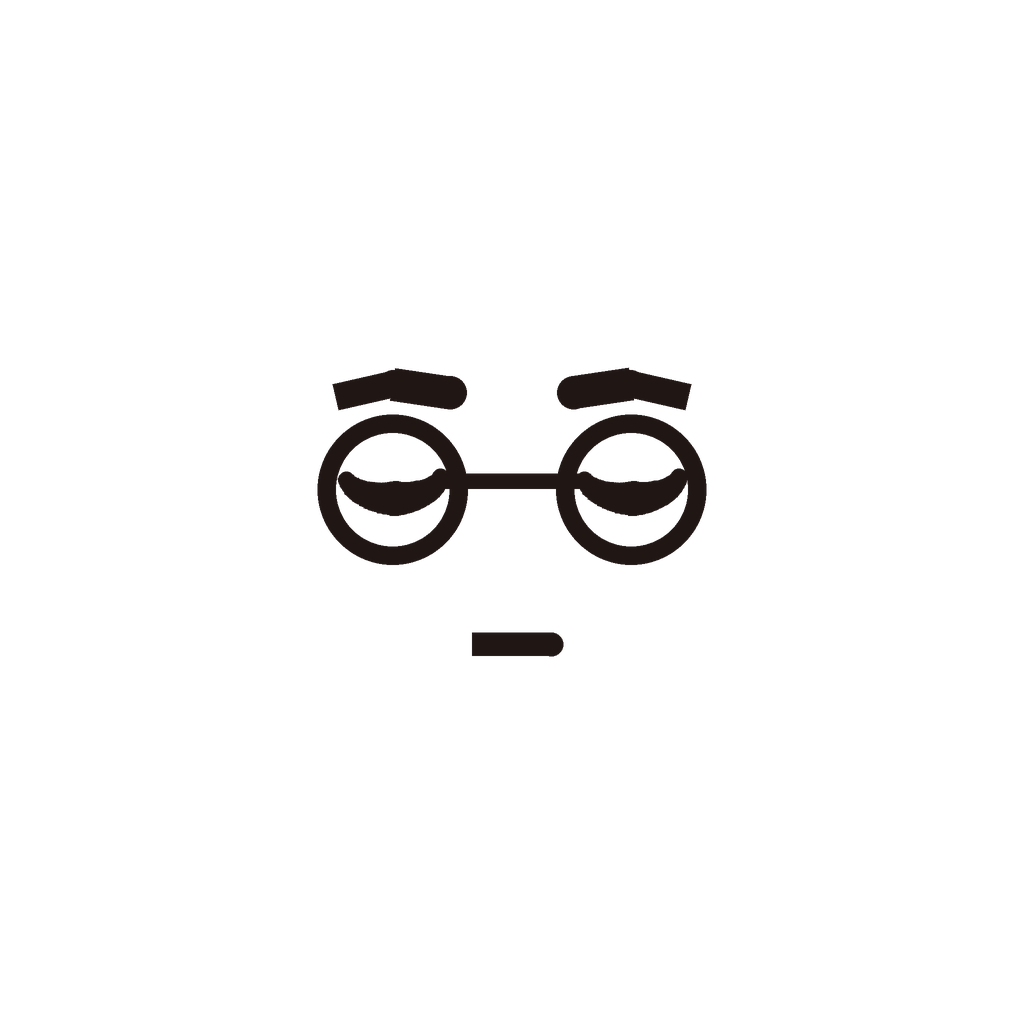
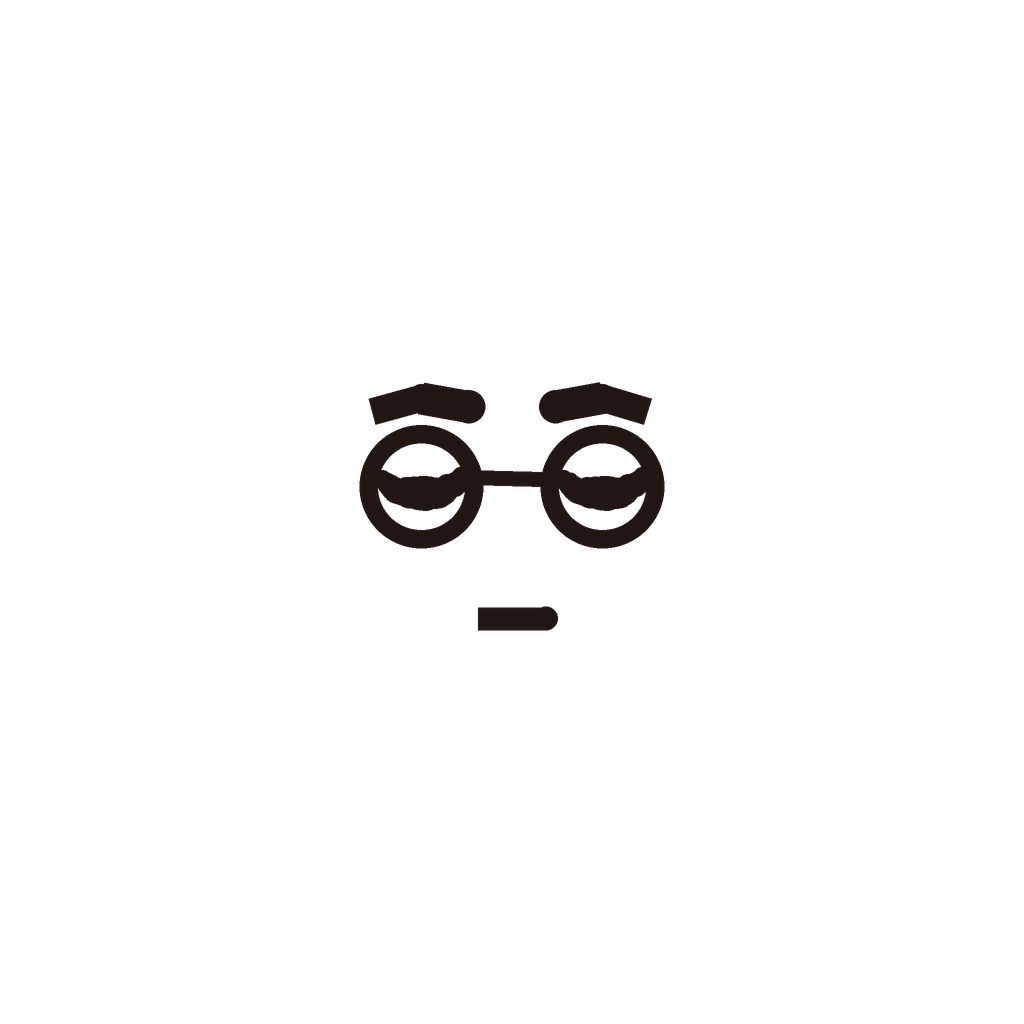
Look v6: no set ink, blue/wood palette, hand-drawn character outline, flat heads, smaller asymmetric faces, clothing decals, thin limbs, light shafts and bloom in post
Claude-Session: https://claude.ai/code/session_01B5sgCVepJEDXiVLGvcjf3z

Changed region(s): [[0.3125, 0.3438, 0.6875, 0.5625], [0.4375, 0.5938, 0.5625, 0.6562]]

diff --git a/production/pipeline/characters.py b/production/pipeline/characters.py
@@ -16,6 +16,23 @@ def striped(name,col,dark,scale,axis='Z',rough=0.6):
     e[0].color=(*dark,1); e[1].position=0.12; e[1].color=(*col,1)
     nt.links.new(tc.outputs['Object'],w.inputs[0]); nt.links.new(w.outputs['Fac'],cr.inputs[0]); nt.links.new(cr.outputs[0],p.inputs['Base Color'])
     return m
+def front_decal(base,path,hw,top,bot):
+    """Copy of material 'base' with a front-projected drawing (pockets, stitches, tie...) over its colour."""
+    m=base.copy(); m.name=base.name+"_dec"; nt=m.node_tree; n=nt.nodes; p=n["Principled BSDF"]
+    src=p.inputs['Base Color'].links[0].from_socket if p.inputs['Base Color'].links else None
+    col=tuple(p.inputs['Base Color'].default_value)
+    tc=n.new('ShaderNodeTexCoord'); sx=n.new('ShaderNodeSeparateXYZ'); nt.links.new(tc.outputs['Object'],sx.inputs[0])
+    u=n.new('ShaderNodeMapRange'); u.inputs[1].default_value=-hw; u.inputs[2].default_value=hw; u.clamp=False; nt.links.new(sx.outputs['X'],u.inputs[0])
+    v=n.new('ShaderNodeMapRange'); v.inputs[1].default_value=bot; v.inputs[2].default_value=top; v.clamp=False; nt.links.new(sx.outputs['Z'],v.inputs[0])
+    cx=n.new('ShaderNodeCombineXYZ'); nt.links.new(u.outputs[0],cx.inputs[0]); nt.links.new(v.outputs[0],cx.inputs[1])
+    tx=n.new('ShaderNodeTexImage'); tx.image=bpy.data.images.load(path,check_existing=True); tx.extension='CLIP'; nt.links.new(cx.outputs[0],tx.inputs[0])
+    fr=n.new('ShaderNodeMath'); fr.operation='LESS_THAN'; fr.inputs[1].default_value=0.0; nt.links.new(sx.outputs['Y'],fr.inputs[0])
+    al=n.new('ShaderNodeMath'); al.operation='MULTIPLY'; nt.links.new(tx.outputs['Alpha'],al.inputs[0]); nt.links.new(fr.outputs[0],al.inputs[1])
+    mx=n.new('ShaderNodeMix'); mx.data_type='RGBA'; nt.links.new(al.outputs[0],mx.inputs['Factor'])
+    if src: nt.links.new(src,mx.inputs['A'])
+    else: mx.inputs['A'].default_value=col
+    nt.links.new(tx.outputs['Color'],mx.inputs['B']); nt.links.new(mx.outputs['Result'],p.inputs['Base Color'])
+    return m
 def ink_ring(o_parent,loc,R,r,rot=(0,0,0)):
     """Thin dark torus = drawn inner line where two parts meet (hat/forehead, hair/forehead)."""
     return torus(loc,R,r,mat("ink",(0.035,0.025,0.02),0.6,0.1),rot=rot)
@@ -44,40 +61,30 @@ class Character:
         _add(o,self.root,self.coll)
         return o
     # ---------- builders ----------
-    def build(self,R=0.25,hip=0.8,torso=0.6,torso_w=0.17,shirt=(0.96,0.96,0.95),legs=(0.035,0.025,0.02),beard=False,
+    def build(self,R=0.25,hip=0.8,torso=0.6,torso_w=0.17,shirt=(0.96,0.96,0.95),legs=(0.035,0.025,0.02),beard=False,decal=None,look=0.0,
               shoes=(0.12,0.08,0.06),hair=None,hat=None,tie=None,coat=None,buttons=0,arms=None,collar=True):
-        self.R=R; self.beard=beard; z_t=hip+torso/2-0.04
+        self.R=R; self.beard=beard; self.look=look; z_t=hip+torso/2-0.04; decal_objs=[]
         body=sph((0,0,z_t),(torso_w,torso_w*0.78,torso/2+0.03),mat(self.name+"_shirt",shirt,0.7,0.25,emit=0.08 if sum(shirt)>2.7 else 0),seg=40)
         self.part(body,0.011)
         if coat:  # long coat flaring to the knees
-            c=cyl((0,0,hip-0.05),torso_w*1.02,0.62,mat(self.name+"_coat",coat,0.45,0.45),verts=40,r2=torso_w*1.45,rot=(math.pi,0,0),bevel=0.0)
-            c.location=(0,0,hip+0.02); self.part(c,0.011)
-            top=sph((0,0,z_t+0.05),(torso_w*1.07,torso_w*0.86,torso/2-0.02),mat(self.name+"_coat",coat,0.45,0.45),seg=40); self.part(top,0.011)
-            for i in range(buttons):
+            c=cyl((0,0,hip-0.05),torso_w*1.02,0.62,mat(self.name+"_coat",coat,0.8,0.15),verts=40,r2=torso_w*1.45,rot=(math.pi,0,0),bevel=0.0)
+            c.location=(0,0,hip+0.02); self.part(c,0.011); decal_objs=[c]
+            top=sph((0,0,z_t+0.05),(torso_w*1.07,torso_w*0.86,torso/2-0.02),mat(self.name+"_coat",coat,0.8,0.15),seg=40); self.part(top,0.011); decal_objs.append(top)
+            for i in range(0):
                 self.part(sph((0.0,-torso_w*0.88,z_t+0.18-i*0.17),(0.018,0.012,0.018),mat("btn",(0.15,0.1,0.06),0.4)))
             if collar:
                 for s in (-1,1):
-                    cl=cyl((s*0.06,-0.07,z_t+torso/2-0.04),0.07,0.02,mat(self.name+"_coat",coat,0.45,0.45),rot=(1.2,0,s*0.6),verts=3); self.part(cl,0.006)
+                    cl=cyl((s*0.06,-0.07,z_t+torso/2-0.04),0.07,0.02,mat(self.name+"_coat",coat,0.8,0.15),rot=(1.2,0,s*0.6),verts=3); self.part(cl,0.006)
         elif collar and not tie:
             for s in (-1,1):
                 cl=cyl((s*0.045,-torso_w*0.62,z_t+torso/2-0.07),0.055,0.015,mat(self.name+"_shirt",shirt,0.7,0.25,emit=0.08 if sum(shirt)>2.7 else 0),rot=(1.35,0,s*0.5),verts=3); self.part(cl,0.006)
-        if tie:  # tie painted onto the shirt front (flat, striped, ink outline)
-            m=body.data.materials[0].copy(); m.name=self.name+"_shirt_tie"; nt=m.node_tree; n=nt.nodes; p=n["Principled BSDF"]
-            tc=n.new('ShaderNodeTexCoord'); sx=n.new('ShaderNodeSeparateXYZ'); nt.links.new(tc.outputs['Object'],sx.inputs[0])
-            hw=0.105; top=z_t+torso/2-0.02; bot=z_t-torso/2*0.62
-            u=n.new('ShaderNodeMapRange'); u.inputs[1].default_value=-hw; u.inputs[2].default_value=hw; u.clamp=False; nt.links.new(sx.outputs['X'],u.inputs[0])
-            v=n.new('ShaderNodeMapRange'); v.inputs[1].default_value=bot; v.inputs[2].default_value=top; v.clamp=False; nt.links.new(sx.outputs['Z'],v.inputs[0])
-            cx=n.new('ShaderNodeCombineXYZ'); nt.links.new(u.outputs[0],cx.inputs[0]); nt.links.new(v.outputs[0],cx.inputs[1])
-            tx=n.new('ShaderNodeTexImage'); tx.image=bpy.data.images.load(os.path.join(HERE,"assets","tie.png"),check_existing=True); tx.extension='CLIP'
-            nt.links.new(cx.outputs[0],tx.inputs[0])
-            fr=n.new('ShaderNodeMath'); fr.operation='LESS_THAN'; fr.inputs[1].default_value=0.0; nt.links.new(sx.outputs['Y'],fr.inputs[0])
-            al=n.new('ShaderNodeMath'); al.operation='MULTIPLY'; nt.links.new(tx.outputs['Alpha'],al.inputs[0]); nt.links.new(fr.outputs[0],al.inputs[1])
-            mx=n.new('ShaderNodeMix'); mx.data_type='RGBA'; nt.links.new(al.outputs[0],mx.inputs['Factor']); mx.inputs['A'].default_value=(*shirt,1); nt.links.new(tx.outputs['Color'],mx.inputs['B'])
-            nt.links.new(mx.outputs['Result'],p.inputs['Base Color'])
-            body.data.materials[0]=m
+        if decal:
+            targets=[o for o in decal_objs] if decal_objs else [body]
+            m=front_decal(targets[0].data.materials[0],os.path.join(HERE,"assets",decal),hw=torso_w*1.25,top=z_t+torso/2+0.02,bot=hip-(0.55 if coat else 0.02))
+            for o in targets: o.data.materials[0]=m
         # head
         hz=z_t+torso/2+R*0.82; self.head_z=hz
-        head=sph((0,0,hz),(R,R*0.93,R*0.97),mat("skin",SKIN,0.45,0.45,emit=0.18),seg=48); self.part(head,0.013)
+        head=sph((0,0,hz),(R,R*0.93,R*0.97),mat("skin",SKIN,1.0,0.0,emit=0.1),seg=48); self.part(head,0.013)
         if hair:
             import bmesh
             o=sph((0,0,hz),(R*1.05,R*0.98,R*1.02),striped(self.name+"_hair",hair,tuple(x*0.45 for x in hair),9,'X',0.5),seg=48)
@@ -111,21 +118,21 @@ class Character:
         me=bpy.data.meshes.new(self.name+"_face"); me.from_pydata([(x*R,y*R,0) for x,y in pts]+[(0,0,0)],[],[[i for i in range(len(pts))]]); me.update()
         uv=me.uv_layers.new()
         for l in me.loops:
-            co=me.vertices[l.vertex_index].co; uv.data[l.index].uv=(co.x/(2.6*R)+0.5,co.y/(2.6*R)+0.5)
+            co=me.vertices[l.vertex_index].co; uv.data[l.index].uv=(co.x/(2.6*R)+0.5-self.look,co.y/(2.6*R)+0.5)
         fp=bpy.data.objects.new(self.name+"_face",me)
         self.faces_coll.objects.link(fp); fp.parent=piv; fp.location=(0,0,R*1.02); fp.visible_shadow=False
-        self.face_mat=image_mat(self.name+"_facemat",f"{FACEDIR}/{self.name}_{self.face_name}.png",emit=0.6,rough=0.9)
+        self.face_mat=image_mat(self.name+"_facemat",f"{FACEDIR}/{self.name}_{self.face_name}.png",emit=0.25,rough=0.9)
         fp.data.materials.append(self.face_mat); self.face_obj=fp
         # legs + shoes
         for s in (-1,1):
-            self.limb(tube([(s*0.065,0.0,hip+0.05),(s*0.07,0.0,0.45),(s*0.075,0.0,0.07)],0.012,mat("limb",legs,0.6)))
-            self.part(sph((s*0.075,-0.04,0.035),(0.045,0.08,0.035),mat(self.name+"_shoes",shoes,0.5,0.3)),0.007)
+            self.limb(tube([(s*0.065,0.0,hip+0.05),(s*0.07,0.0,0.45),(s*0.075,0.0,0.07)],0.009,mat("limb",legs,0.9,0.0)))
+            self.part(sph((s*0.07,-0.035,0.022),(0.028,0.055,0.022),mat(self.name+"_shoes",shoes,0.9,0.05)),0.0)
         self.sh_z=z_t+torso/2-0.16; self.sh_x=torso_w*(1.0 if coat else 0.9)
         for side,pts in zip((-1,1),arms or [None,None]):
             if pts is None: pts=[(0.05,0,-0.02),(0.12,-0.02,-0.25),(0.14,-0.05,-0.5)]
             P=[(side*(self.sh_x+a),b,self.sh_z+c) for a,b,c in pts]
-            self.limb(tube([(side*(self.sh_x-0.04),0,self.sh_z)]+P,0.011,mat("limb",legs,0.6)))
-            self.limb(sph(P[-1],(0.024,0.024,0.024),mat("limb",legs,0.6)))
+            self.limb(tube([(side*(self.sh_x-0.04),0,self.sh_z)]+P,0.0085,mat("limb",legs,0.9,0.0)))
+            self.limb(sph(P[-1],(0.02,0.02,0.02),mat("limb",legs,0.9,0.0)))
         return self
     def set_face(self,face):
         img=bpy.data.images.load(f"{FACEDIR}/{self.name}_{face}.png",check_existing=True)
@@ -143,10 +150,10 @@ POSES={  # per arm (left, right): points relative to the shoulder; x outward, y 
  "hold":   ([(0.03,-0.02,-0.07),(0.06,-0.14,-0.22),(-0.02,-0.26,-0.18)],)*2,
  "thinking":([(0.03,0,-0.06),(0.07,-0.01,-0.24),(0.08,-0.03,-0.42)],[(0.03,-0.03,-0.07),(0.06,-0.14,-0.2),(-0.06,-0.24,0.06)]),
 }
-def keeper(loc,yaw=0,face="smug",arms=None,pose=None):
+def keeper(loc,yaw=0,face="smug",arms=None,pose=None,look=0.0):
     arms=list(POSES[pose]) if pose else arms
-    return Character("keeper",loc,yaw,face=face).build(R=0.3,torso_w=0.16,coat=(0.93,0.68,0.16),buttons=3,hat="beanie",beard=True,
+    return Character("keeper",loc,yaw,face=face).build(R=0.3,torso_w=0.16,coat=(0.98,0.74,0.12),buttons=3,hat="beanie",beard=True,decal="coat_details.png",look=look,
         shirt=(0.93,0.68,0.16),shoes=(0.08,0.06,0.05),arms=arms)
-def engineer(loc,yaw=0,face="happy",arms=None,pose=None):
+def engineer(loc,yaw=0,face="happy",arms=None,pose=None,look=0.0):
     arms=list(POSES[pose]) if pose else arms
-    return Character("engineer",loc,yaw,face=face).build(R=0.29,torso_w=0.15,hair=(0.42,0.25,0.13),tie=(0.24,0.36,0.56),arms=arms)
+    return Character("engineer",loc,yaw,face=face).build(R=0.29,torso_w=0.15,hair=(0.42,0.25,0.13),tie=None,decal="shirt_details.png",look=look,arms=arms)

diff --git a/production/pipeline/sets/cottage.py b/production/pipeline/sets/cottage.py
@@ -29,9 +29,9 @@ def boards_h(axis_pos,span,z0,z1,h,m,coll,wall="back",holes=(),th=0.045,gap=0.00
 def build(time="day"):
     random.seed(7); sc=bpy.context.scene
     S=bpy.data.collections.new("set"); sc.collection.children.link(S)
-    upper=painted("upper_wall",(0.66,0.70,0.68),brush=55)
-    lower=painted("wainscot",(0.20,0.36,0.38),grime=(0.1,0.14,0.13),brush=70)
-    floor=wood("floor",(0.56,0.36,0.2),(0.3,0.17,0.08),axis="Y",grain=5)
+    upper=painted("upper_wall",(0.56,0.70,0.84),grime=(0.4,0.48,0.56),brush=55)
+    lower=painted("wainscot",(0.12,0.25,0.5),grime=(0.08,0.14,0.26),brush=70)
+    floor=wood("floor",(0.66,0.42,0.22),(0.38,0.21,0.1),axis="Y",grain=5,rough=0.38)
     trim=mat("trim",(0.88,0.85,0.78),0.5,0.3,vary=0.03)
     beamm=wood("beam",(0.42,0.27,0.15),(0.22,0.12,0.06),axis="Y",grain=4,bump=0.5)
     # floor boards with staggered ends
@@ -72,18 +72,18 @@ def build(time="day"):
     for xw in (x0,x1): box((xw,Y1-0.02,(z0+z1)/2),(0.08,0.14,z1-z0+0.08),fm,0.01,coll=S,name="wframe")
     box((cx,Y1,(z0+z1)/2),(0.04,0.05,z1-z0),fm,0.006,coll=S); box((cx,Y1,(z0+z1)/2),(x1-x0,0.05,0.04),fm,0.006,coll=S)
     box((cx,Y1-0.12,z0-0.03),(x1-x0+0.3,0.26,0.05),fm,0.01,coll=S,name="sill")
-    cur=mat("curtain",(0.66,0.24,0.2),0.8,0.1)
+    cur=mat("curtain",(0.78,0.16,0.14),0.85,0.1)
     for s,xc in ((-1,x0-0.12),(1,x1+0.12)):
         for k in range(4): cyl((xc+s*0.04*k,Y1-0.1-0.02*(k%2),(z0+z1)/2+0.1),0.05,1.25,cur,verts=12,bevel=0,coll=S,name="curtain")
     cyl((cx,Y1-0.12,z1+0.18),0.02,x1-x0+0.7,mat("brass",(0.85,0.6,0.15),0.3,0.6),rot=(0,math.pi/2,0),coll=S)
     pot=cyl((x0+0.25,Y1-0.12,z0+0.08),0.07,0.12,mat("pot",(0.75,0.35,0.2),0.7),r2=0.09,coll=S)
     for k in range(5): sph((x0+0.25+random.uniform(-0.06,0.06),Y1-0.12+random.uniform(-0.04,0.04),z0+0.2+random.uniform(0,0.1)),(0.06,0.05,0.07),mat("leaf",(0.25,0.55,0.2),0.6),seg=12,coll=S)
     bpy.ops.mesh.primitive_plane_add(size=1,location=(cx+0.3,Y1+1.6,1.6),rotation=(math.pi/2,0,0)); v=bpy.context.object; v.scale=(4.8,3.6,1)
-    v.data.materials.append(image_mat("view",f"{A}/sky_golden.png",emit=0.9,alpha=False)); v.visible_shadow=False
+    v.data.materials.append(image_mat("view",f"{A}/sky_day.png",emit=1.1,alpha=False)); v.visible_shadow=False
     for c in v.users_collection: c.objects.unlink(v)
     S.objects.link(v)
     # ---- props ----
-    fwood=wood("furniture",(0.58,0.35,0.18),(0.33,0.18,0.08),axis="X",grain=7); dark=mat("iron",(0.12,0.11,0.11),0.4,0.5)
+    fwood=wood("furniture",(0.58,0.35,0.18),(0.33,0.18,0.08),axis="X",grain=7); dark=mat("iron",(0.1,0.1,0.11),0.25,0.8)
     # table + cloth + lamp + mug + bread
     tx,ty=1.35,-0.6
     box((tx,ty,0.76),(1.2,0.8,0.06),fwood,0.012,coll=S,name="tabletop")
@@ -93,10 +93,10 @@ def build(time="day"):
     for i in range(6):
         for j in range(4):
             box((tx-0.45+i*0.18,ty-0.27+j*0.18,0.795),(0.18,0.18,0.008),cl if (i+j)%2 else mat("cloth2",(0.95,0.93,0.88),0.8,0.1),0,coll=S)
-    brass=mat("brass",(0.85,0.6,0.15),0.3,0.6); glow=mat("lampglow",(1.0,0.7,0.35),0.4,0.2,emit=12)
+    brass=mat("brass",(0.9,0.66,0.2),0.18,0.9); glow=mat("lampglow",(1.0,0.7,0.35),0.4,0.2,emit=12)
     cyl((tx-0.3,ty+0.15,0.83),0.09,0.06,brass,coll=S); cyl((tx-0.3,ty+0.15,0.88),0.03,0.06,brass,coll=S)
     sph((tx-0.3,ty+0.15,1.0),(0.075,0.075,0.11),glow,coll=S,name="lampglass"); cyl((tx-0.3,ty+0.15,1.13),0.045,0.04,brass,coll=S)
-    mug=cyl((tx+0.25,ty-0.1,0.86),0.055,0.12,mat("mug",(0.25,0.45,0.7),0.5,0.4),coll=S); torus((tx+0.31,ty-0.1,0.86),0.035,0.01,mat("mug",(0.25,0.45,0.7),0.5,0.4),rot=(math.pi/2,0,0),coll=S)
+    mug=cyl((tx+0.25,ty-0.1,0.86),0.055,0.12,mat("mug",(0.85,0.15,0.12),0.15,0.9),coll=S); torus((tx+0.31,ty-0.1,0.86),0.035,0.01,mat("mug",(0.85,0.15,0.12),0.15,0.9),rot=(math.pi/2,0,0),coll=S)
     cyl((tx+0.05,ty+0.1,0.81),0.15,0.015,mat("plate",(0.95,0.95,0.92),0.4,0.4),coll=S); sph((tx+0.05,ty+0.1,0.85),(0.1,0.06,0.045),mat("bread",(0.8,0.5,0.2),0.7),coll=S)
     for s in (-1,1):  # chairs
         chx,chy=tx+s*0.45,ty+(0.62 if s<0 else -0.62)
@@ -112,7 +112,7 @@ def build(time="day"):
     box((sx,sy-0.33,0.4),(0.24,0.03,0.2),mat("stoveglow",(1.0,0.45,0.1),0.5,0.1,emit=6),0.004,coll=S)
     for dx in (-0.2,0.2):
         for dy in (-0.2,0.2): cyl((sx+dx,sy+dy,0.06),0.04,0.12,dark,verts=8,coll=S)
-    cyl((sx+0.22,sy-0.05,0.93),0.11,0.16,mat("kettle",(0.2,0.45,0.4),0.35,0.5),coll=S)
+    cyl((sx+0.22,sy-0.05,0.93),0.11,0.16,mat("kettle",(0.1,0.35,0.6),0.12,0.9),coll=S)
     # shelf on left wall with jars and books
     box((X0+0.15,0.2,1.55),(0.26,1.5,0.04),fwood,0.006,coll=S); box((X0+0.15,0.2,1.15),(0.26,1.5,0.04),fwood,0.006,coll=S)
     cols=[(0.3,0.55,0.35),(0.75,0.3,0.2),(0.85,0.7,0.3),(0.3,0.4,0.75),(0.65,0.6,0.55),(0.5,0.25,0.5)]
@@ -146,7 +146,7 @@ def build(time="day"):
         for dy in (-0.2,0.2): cyl((rx+s*0.22,ry+dy,0.27),0.022,0.45,rw,verts=8,coll=S)
     # braided round rug: one disc with ring pattern (no stacked edges -> no heavy rings of ink)
     bpy.ops.mesh.primitive_cylinder_add(radius=1.1,depth=0.015,location=(-0.1,0.2,0.008),vertices=96); rug=bpy.context.object; rug.scale=(1.25,0.85,1)
-    rm=fabric("rug",(0.62,0.34,0.24),(0.78,0.66,0.48),scale=90)
+    rm=fabric("rug",(0.75,0.2,0.16),(0.9,0.82,0.66),scale=90)
     rug.data.materials.append(rm)
     for c_ in rug.users_collection: c_.objects.unlink(rug)
     S.objects.link(rug)
@@ -166,15 +166,15 @@ def build(time="day"):
 def lights(time="day"):
     sc=bpy.context.scene
     bpy.ops.object.light_add(type='SUN',rotation=(math.radians(-52),0,math.radians(-30)))
-    sun=bpy.context.object.data; sun.energy=float(os.environ.get('SUN','6')); sun.color=(1.0,0.78,0.52); sun.angle=math.radians(2.5)
-    bpy.ops.object.light_add(type='SPOT',location=(0.9,4.6,3.6)); sp=bpy.context.object; sp.data.energy=float(os.environ.get('KEY','2500')); sp.data.color=(1.0,0.86,0.68)
+    sun=bpy.context.object.data; sun.energy=float(os.environ.get('SUN','6')); sun.color=(1.0,0.95,0.86); sun.angle=math.radians(2.5)
+    bpy.ops.object.light_add(type='SPOT',location=(0.9,4.6,3.6)); sp=bpy.context.object; sp.data.energy=float(os.environ.get('KEY','2500')); sp.data.color=(1.0,0.9,0.72)
     sp.data.spot_size=math.radians(38); sp.data.spot_blend=0.15; sp.data.shadow_soft_size=0.05
     tg=bpy.data.objects.new("key_tgt",None); bpy.context.scene.collection.objects.link(tg); tg.location=(-0.3,0.0,0.0)
     cn=sp.constraints.new('TRACK_TO'); cn.target=tg; cn.track_axis='TRACK_NEGATIVE_Z'; cn.up_axis='UP_Y'
-    bpy.ops.object.light_add(type='POINT',location=(0.75,-0.45,1.0)); l=bpy.context.object.data; l.energy=70; l.color=(1.0,0.66,0.33); l.shadow_soft_size=0.08
+    bpy.ops.object.light_add(type='POINT',location=(0.75,-0.45,1.0)); l=bpy.context.object.data; l.energy=float(os.environ.get("LAMP","18")); l.color=(1.0,0.66,0.33); l.shadow_soft_size=0.08
     bpy.ops.object.light_add(type='POINT',location=(0.5,-0.2,ZT-0.75)); l=bpy.context.object.data; l.energy=60; l.color=(1.0,0.7,0.4); l.shadow_soft_size=0.05
     bpy.ops.object.light_add(type='POINT',location=(-1.85,1.2,0.4)); l=bpy.context.object.data; l.energy=40; l.color=(1.0,0.45,0.15)
     # soft overall fill so the room reads bright like the competitors' game-style lighting
     bpy.ops.object.light_add(type='AREA',location=(0.3,-0.8,ZT-0.35),rotation=(0,0,0)); a=bpy.context.object.data; a.energy=float(os.environ.get('FILL','45')); a.size=3.0; a.color=(0.95,0.95,0.95)
     bpy.ops.object.light_add(type='AREA',location=(1.5,-3.2,1.6),rotation=(math.radians(80),0,math.radians(15))); a=bpy.context.object.data; a.energy=float(os.environ.get('FRONT','55')); a.size=2.5; a.color=(0.9,0.92,1.0)
-    w=bpy.data.worlds.new("w"); sc.world=w; w.use_nodes=True; bg=w.node_tree.nodes["Background"]; bg.inputs[0].default_value=(0.75,0.82,0.95,1); bg.inputs[1].default_value=0.4
+    w=bpy.data.worlds.new("w"); sc.world=w; w.use_nodes=True; bg=w.node_tree.nodes["Background"]; bg.inputs[0].default_value=(0.45,0.62,0.95,1); bg.inputs[1].default_value=0.4

diff --git a/production/pipeline/frame_v6.py b/production/pipeline/frame_v6.py
@@ -1,0 +1,62 @@
+"""Look v6 test frame: no set ink, two-family palette, gloss pass, action composition, post light shafts."""
+import bpy, sys, os, time, math
+sys.path.insert(0,os.path.dirname(os.path.abspath(__file__)))
+from toon import *
+from sets import cottage
+import characters as ch, bake
+import cv2, numpy as np
+OUT=sys.argv[-1]; T0=time.time(); E=os.environ.get
+sc=reset(pct=100)
+cam,tgt=camera(sc,(0.95,-1.55,0.98),(-0.05,0.45,1.3),lens=26,fstop=float(E("FSTOP","2.0")),focus=2.25)
+os.environ.update(SUN="3",KEY=E("KEY","9000"),FILL=E("FILL","10"),FRONT=E("FRONT","22"))
+cottage.build(); cottage.lights()
+sc.world.node_tree.nodes["Background"].inputs[1].default_value=float(E("WORLD","0.5"))
+# foreground hero prop: glass jar of mercury on the table (closest to camera)
+S=bpy.data.collections["set"]
+glass=mat("jarglass",(0.75,0.88,0.95),0.05,1.0); merc=mat("mercury",(0.82,0.84,0.88),0.04,1.0)
+cyl((0.95,-0.85,0.87),0.075,0.17,glass,coll=S,name="jar"); cyl((0.95,-0.85,0.97),0.06,0.03,mat("cork",(0.6,0.42,0.25),0.9,0.05),coll=S)
+sph((0.95,-0.85,0.83),(0.062,0.062,0.045),merc,coll=S,name="mercury")
+k=ch.keeper((-0.42,0.3,0),yaw=math.radians(30),face=E("KF","skeptical"),pose="hips",look=0.09)
+e=ch.engineer((0.38,0.42,0),yaw=math.radians(-38),face=E("EF","happy"),pose="point",look=-0.09)
+faces=set(bpy.data.collections["faces"].all_objects)
+names_c={o.name for o in bpy.data.collections["chars"].all_objects}|{o.name for o in bpy.data.collections["limbs"].all_objects}
+allobjs=[o for o in sc.objects if o.type in ('MESH','CURVE') and o not in faces]
+allobjs=[o for o in bake.to_mesh(allobjs) if o.type=='MESH']
+for o in allobjs:
+    mw=o.matrix_world.copy(); o.parent=None; o.matrix_world=mw
+setl=[o for o in allobjs if o.name not in names_c]; chl=[o for o in allobjs if o.name in names_c]
+setg=bake.join(setl,"world"); cast=bake.join(chl,"cast")
+bake.unwrap([setg],margin=0.0012); bake.unwrap([cast],margin=0.003)
+def do(g,AS,LS,spp,is_set):
+    alb=bake.img_np(bake.bake_pass([g],'DIFFUSE',AS,1,['COLOR']))
+    lit=cv2.GaussianBlur(bake.img_np(bake.bake_pass([g],'DIFFUSE',LS,spp,['DIRECT','INDIRECT'])),(0,0),0.7)
+    emi=bake.img_np(bake.bake_pass([g],'EMIT',LS,1))
+    gl=None
+    if is_set:
+        ao=cv2.GaussianBlur(bake.img_np(bake.bake_pass([g],'AO',LS,32)),(0,0),0.8); lit=lit*(0.3+0.7*ao)
+    ink=np.zeros(alb.shape[:2],np.float32) if is_set else bake.ink_mask([g],AS,3,min_angle=70)
+    final=bake.compose(alb,lit,emi,ink,exposure=float(E("EXPO","1.15")),sat=float(E("SAT","1.3")),contrast=float(E("CON","1.08")),gloss=gl)
+    bake.apply_baked([g],final,name="atlas_"+g.name)
+do(setg,int(E("ATLAS","8192")),2048,int(E("SPP","64")),True)
+do(cast,2048,1024,int(E("SPP","64")),False)
+bake.ink_shell([cast],0.012,wobble=0.55)   # characters only: hand-drawn outline
+bake.workbench(sc)
+print("PREP TOTAL",round(time.time()-T0,1),flush=True)
+def post(src,dst):
+    im=cv2.imread(src).astype(np.float32)/255
+    g=im.mean(-1)
+    # light shafts from the sunlit window: directional smear of the brightest pixels, warm tint
+    m=np.clip((g-0.9)*8,0,1); h,w=m.shape; acc=np.zeros_like(m); dx,dy=-0.012*w,0.02*h
+    for i in range(1,28):
+        M=np.float32([[1,0,dx*i],[0,1,dy*i]]); acc+=cv2.warpAffine(m,M,(w,h))*(1-i/28)
+    acc=cv2.GaussianBlur(acc/10,(0,0),9)
+    im+=acc[...,None]*np.array([0.55,0.8,1.0])*float(E("SHAFT","0.35"))   # BGR
+    # bloom
+    br=np.clip(im-0.95,0,None); im+=cv2.GaussianBlur(br,(0,0),w*0.02)*0.8+cv2.GaussianBlur(br,(0,0),w*0.006)*0.5
+    # soft vignette
+    yy,xx=np.mgrid[0:h,0:w]; r=np.sqrt(((xx-w/2)/(w/2))**2+((yy-h/2)/(h/2))**2); im*=(1-0.18*np.clip(r-0.55,0,1))[...,None]
+    cv2.imwrite(dst,(np.clip(im,0,1)*255).astype(np.uint8))
+for i,(dof,aa) in enumerate([(True,'8'),(True,'5'),(False,'8')]):
+    sc.display.shading.use_dof=dof; sc.display.render_aa=aa
+    sc.render.filepath=f"{OUT}_raw{i}.png"; t=time.time(); bpy.ops.render.render(write_still=True); print(f"FRAME dof={dof} aa={aa}",round(time.time()-t,2),flush=True)
+    t=time.time(); post(f"{OUT}_raw{i}.png",f"{OUT}_f{i}.png"); print("POST",round(time.time()-t,2),flush=True)

diff --git a/production/pipeline/faces.py b/production/pipeline/faces.py
@@ -2,15 +2,19 @@
 brush-like tapered strokes. Canvas = 2.6 x head radius, centred on the head. Drawn at 2x, downsampled."""
 from PIL import Image, ImageDraw
 import math, os
-INK=(32,22,20,255); WHITE=(255,255,255,255); MOUTH=(120,36,34,255); TEETH=(250,248,244,255); BEARD=(244,242,236,255)
+INK=(32,22,20,255); WHITE=(255,255,255,255); MOUTH=(120,36,34,255); TEETH=(250,248,244,255); BEARD=(168,170,182,255)
 S=2048; C=S//2; RP=S/2.6
-def P(x,y): return (C+x*RP*1.12, C-y*RP*1.12)
+FS=0.92
+def P(x,y): return (C+x*RP*FS, C-y*RP*FS)
 SC=1.35
 def W(w): return max(2,int(w*RP*1.35))
 
 def stroke(d,pts,w0,w1=None,w_mid=None):
     """Tapered brush stroke along points (head-radius units). Width: w0 at start, w_mid in the middle, w1 at end."""
     w1=w0 if w1 is None else w1; w_mid=max(w0,w1) if w_mid is None else w_mid
+    import random
+    rnd=random.Random(int(sum(abs(a)+abs(b) for a,b in pts)*1000))
+    pts=[(a+rnd.uniform(-0.006,0.006),b+rnd.uniform(-0.006,0.006)) for a,b in pts]   # hand-drawn wobble
     n=len(pts)
     for i in range(n-1):
         t=(i+0.5)/(n-1); w=(w0*(1-2*t)+w_mid*2*t) if t<0.5 else (w_mid*(2-2*t)+w1*(2*t-1))
@@ -21,7 +25,7 @@ def blob(d,pts,fill,outline=True,w=0.055):
     d.polygon([P(*p) for p in pts],fill=fill)
     if outline: stroke(d,pts+[pts[0]],w)
 
-EX,EY=0.27,0.05
+EX,EY=0.25,0.07
 def eye(d,x,kind,s):
     if kind=="open":        # small oval pupil
         d.ellipse([*P(x-0.075,EY+0.1),*P(x+0.075,EY-0.1)],fill=INK)
@@ -40,6 +44,8 @@ def eye(d,x,kind,s):
         stroke(d,[(x-0.12,EY+0.02),(x+0.12,EY-0.01)],0.04,0.04,0.07)
 def brow(d,x,kind,s):
     by=EY+0.22; i=-s   # i: +1 toward the nose
+    if kind=="cocked":   # asymmetric: right brow raised, left flat
+        kind="raised" if s>0 else "calm"
     shapes={
      "calm":   [(x-0.13*s*-1,by-0.01),(x,by+0.02),(x+0.13*s*-1,by)],
      "raised": [(x-0.13*s*-1,by+0.04),(x,by+0.1),(x+0.13*s*-1,by+0.05)],
@@ -70,6 +76,13 @@ def mouth(d,kind):
         for k in (-0.08,0,0.08): stroke(d,[(k,MY+0.04),(k,MY-0.07)],0.012)
         stroke(d,[(-0.16,MY-0.015),(0.16,MY-0.015)],0.012)
 def beard(d):
+    # compact chin beard + moustache (small, like the competitors' facial hair)
+    pts=[(-0.26,-0.33),(-0.12,-0.31),(0.0,-0.33),(0.12,-0.31),(0.26,-0.33),(0.24,-0.42),(0.17,-0.5),(0.1,-0.47),(0.05,-0.56),(0.0,-0.5),(-0.05,-0.56),(-0.1,-0.47),(-0.17,-0.5),(-0.24,-0.42)]
+    blob(d,pts,BEARD,True,0.045)
+    for s in (-1,1):
+        blob(d,[(0.0,-0.2),(s*0.09,-0.15),(s*0.2,-0.17),(s*0.25,-0.24),(s*0.15,-0.27),(s*0.03,-0.25)],BEARD,True,0.035)
+    return
+def _old_beard(d):
     # drawn beard inside the head silhouette, scalloped lower edge, ink outline -> clean inner line
     top=[(-0.56,-0.37),(-0.4,-0.22),(-0.2,-0.2),(-0.08,-0.23),(0.08,-0.23),(0.2,-0.2),(0.4,-0.22),(0.56,-0.37)]
     bot=[]
@@ -93,10 +106,10 @@ def glasses(d):
     stroke(d,[(-0.16,EY+0.02),(0.16,EY+0.02)],0.03)
 
 EXPR={ # eyes, brows, mouth
- "neutral":("open","calm","flat"), "smug":("lidded","calm","smirk"), "happy":("happy","raised","grin"),
+ "neutral":("open","calm","flat"), "smug":("lidded","cocked","smirk"), "happy":("happy","raised","grin"),
  "laugh":("happy","raised","open"), "shock":("wide","raised","o"), "scream":("wide","raised","shout"),
  "angry":("open","angry","grit"), "furious":("squint","angry","shout"), "worried":("open","worried","frown"),
- "skeptical":("lidded","raised","flat"), "sleepy":("closed","calm","flat"), "evil":("lidded","angry","smirk"),
+ "skeptical":("lidded","cocked","flat"), "sleepy":("closed","calm","flat"), "evil":("lidded","angry","smirk"),
  "proud":("closed","raised","smile"), "talk":("open","calm","o"),
 }
 def make(path,expr,extra=()):

diff --git a/production/pipeline/bake.py b/production/pipeline/bake.py
@@ -96,12 +96,13 @@ def ink_mask(objs,size,width_px,min_angle=40,skip=()):
         bm.free()
     return np.asarray(m,np.float32)/255.0
 
-def compose(alb,light,emit,ink,exposure=1.0,sat=1.15,contrast=1.12):
+def compose(alb,light,emit,ink,exposure=1.0,sat=1.15,contrast=1.12,gloss=None):
     """final = albedo * light + emission, gentle filmic curve, saturation, ink lines."""
     import cv2  # only for fast resize
     H=alb.shape[0]
     L=cv2.resize(light,(H,H),interpolation=cv2.INTER_CUBIC); E=cv2.resize(emit,(H,H),interpolation=cv2.INTER_CUBIC)
     c=alb*L*exposure+E
+    if gloss is not None: c=c+cv2.resize(gloss,(H,H),interpolation=cv2.INTER_CUBIC)*exposure
     c=c/(1+0.35*c)*1.35            # soft shoulder so lamps/sun don't clip harshly
     c=np.clip(c,0,1)**(1/2.2)      # linear -> display
     c=np.clip(0.5+(c-0.5)*contrast,0,1)  # contrast around mid-grey
@@ -125,13 +126,19 @@ def apply_baked(objs,final,name="atlas"):
         o.data.uv_layers["bake"].active=True; o.data.uv_layers["bake"].active_render=True
     return m
 
-def ink_shell(objs,thick=0.008,min_dim=0.0):
+def ink_shell(objs,thick=0.008,min_dim=0.0,wobble=0.0):
     """Inverted-hull silhouette lines; with Workbench backface culling only the back shell shows -> outline."""
     hm=bpy.data.materials.get("inkshell") or bpy.data.materials.new("inkshell")
     hm.diffuse_color=(*INK,1)
     for o in objs:
         if o.get("no_shell"): continue
-        o.data.materials.append(hm); s=o.modifiers.new("shell",'SOLIDIFY'); s.thickness=thick; s.offset=1; s.use_flip_normals=True; s.material_offset=len(o.data.materials)-1; s.use_rim=False
+        o.data.materials.append(hm); s=o.modifiers.new("shell",'SOLIDIFY'); s.thickness=thick
+        if wobble:   # hand-drawn line: thickness varies smoothly along the outline
+            from mathutils import noise, Vector
+            vg=o.vertex_groups.new(name="inkw")
+            for v in o.data.vertices:
+                w=0.5+0.5*noise.noise(Vector(v.co)*9.0); vg.add([v.index],max(0.0,min(1.0,w)),'REPLACE')
+            s.vertex_group="inkw"; s.thickness_vertex_group=1.0-wobble; s.offset=1; s.use_flip_normals=True; s.material_offset=len(o.data.materials)-1; s.use_rim=False
 
 def workbench(sc,aa='8'):
     sc.render.engine='BLENDER_WORKBENCH'; sh=sc.display.shading

diff --git a/production/pipeline/toon.py b/production/pipeline/toon.py
@@ -12,7 +12,7 @@ def reset(res=(1080,1920),pct=50):
 
 def link(nt,a,b): nt.links.new(a,b)
 
-def mat(name,col,rough=0.75,spec=0.2,emit=0.0,vary=0.0,ink=False):
+def mat(name,col,rough=0.75,spec=0.2,emit=0.0,vary=0.0,ink=False,metal=0.0):
     """Soft 'game-toon' material. vary>0 gives each object a slightly different shade (per-board variation)."""
     key=(name,col,rough,spec,emit,vary)
     if key in _mats: return _mats[key]
@@ -216,7 +216,7 @@ def painted(name,col,grime=(0.35,0.3,0.25),rough=0.8,bump=0.25,brush=40.0):
     big=n.new('ShaderNodeTexNoise'); big.inputs['Scale'].default_value=1.2; big.inputs['Detail'].default_value=3; link(nt,co2,big.inputs[0])
     # grime: darker toward the floor (z low)
     tc=n.new('ShaderNodeTexCoord'); sep=n.new('ShaderNodeSeparateXYZ'); link(nt,tc.outputs['Object'],sep.inputs[0])
-    gz=n.new('ShaderNodeMapRange'); gz.inputs[1].default_value=0.0; gz.inputs[2].default_value=0.9; gz.inputs[3].default_value=0.55; gz.inputs[4].default_value=0.0
+    gz=n.new('ShaderNodeMapRange'); gz.inputs[1].default_value=0.0; gz.inputs[2].default_value=0.9; gz.inputs[3].default_value=0.22; gz.inputs[4].default_value=0.0
     link(nt,sep.outputs['Z'],gz.inputs[0])
     gm=n.new('ShaderNodeMath'); gm.operation='MULTIPLY'; link(nt,gz.outputs[0],gm.inputs[0]); link(nt,big.outputs['Fac'],gm.inputs[1])
     c1=n.new('ShaderNodeMix'); c1.data_type='RGBA'; c1.blend_type='MULTIPLY'; c1.inputs['A'].default_value=(*col,1)
